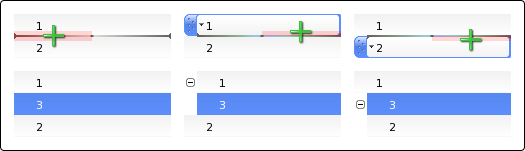
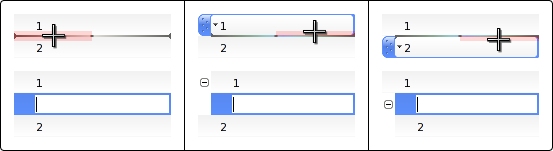
- Redone the ClickOnRightToGroup help image to be more obvious
- Added an explaining image for "export tags in texts"
git-svn-id: http://basket.linux62.org/svn/basket/trunk@79 68e0c82f-6715-0410-a4b6-c4571a790354

diff --git a/src/settings.cpp b/src/settings.cpp
@@ -355,12 +355,17 @@ SettingsDialog::SettingsDialog(QWidget *parent)
 	hLay = new QHBoxLayout(0L, /*margin=*/0, KDialogBase::spacingHint());
 	m_exportTextTags = new QCheckBox(i18n("E&xport tags in texts"), page1);
 	m_exportTextTags->setChecked(Settings::exportTextTags());
+
+
+	QPixmap pixmapHelp(KGlobal::dirs()->findResource("data", "basket/images/tag_export_help.png"));
+	QMimeSourceFactory::defaultFactory()->setPixmap("__resource_help_tag_export.png", pixmapHelp);
 	HelpLabel *hLabel = new HelpLabel(
 			i18n("When does this apply?"),
 			i18n("<p>It does apply when you copy and paste, or drag and drop notes to a text editor.</p>"
 			     "<p>If enabled, this property allows you to paste the tags as textual equivalents.<br>"
 			     "For instance, a list of notes with the <b>To Do</b> and <b>Done</b> tags are exported as lines preceded by <b>[ ]</b> or <b>[x]</b>, "
-			     "representing an empty  checkbox and a checked box.</p>"),
+			     "representing an empty  checkbox and a checked box.</p>") +
+			"<p align='center'><img src=\"__resource_help_tag_export.png\"></p>",
 			page1);
 	hLay->addWidget(m_exportTextTags);
 	hLay->addWidget(hLabel);
@@ -598,7 +603,7 @@ SettingsDialog::SettingsDialog(QWidget *parent)
 	QMimeSourceFactory::defaultFactory()->setPixmap("__resource_help_insertion_line.png", pixmap);
 	HelpLabel *helpV = new HelpLabel(i18n("How to group a new note?"),
 		i18n("<p>When this option is enabled, the insertion-line not only allows you to insert notes at the cursor position, but also allows you to group a new note with the one under the cursor:</p>") +
-		"<p><img src=\"__resource_help_insertion_line.png\"></p>" +
+		"<p align='center'><img src=\"__resource_help_insertion_line.png\"></p>" +
 		i18n("<p>Place your mouse between notes, where you want to add a new one.<br>"
 		     "Click on the <b>left</b> of the insertion-line middle-mark to <b>insert</b> a note.<br>"
 		     "Click on the <b>right</b> to <b>group</b> a note, with the one <b>below or above</b>, depending on where your mouse is.</p>"), m_groupOnInsertionLineWidget);

diff --git a/src/container.cpp b/src/container.cpp
@@ -2641,6 +2641,7 @@ void Container::updateNotesActions()
 	bool isLocked             = currentBasket()->isLocked();
 	bool oneSelected          = currentBasket()->countSelecteds() == 1;
 	bool oneOrSeveralSelected = currentBasket()->countSelecteds() >= 1;
+	bool severalSelected      = currentBasket()->countSelecteds() >= 2;
 
 	// FIXME: m_actCheckNotes is also modified in void Container::areSelectedNotesCheckedChanged(bool checked)
 	//        bool Basket::areSelectedNotesChecked() should return false if bool Basket::showCheckBoxes() is false
@@ -2663,7 +2664,7 @@ void Container::updateNotesActions()
 	m_actOpenNote        ->setEnabled(              oneOrSeveralSelected );
 	m_actOpenNoteWith    ->setEnabled(              oneSelected          ); // TODO: oneOrSeveralSelected IF SAME TYPE
 	m_actSaveNoteAs      ->setEnabled(              oneSelected          ); // IDEM?
-	m_actGroup           ->setEnabled( !isLocked && oneOrSeveralSelected );
+	m_actGroup           ->setEnabled( !isLocked && severalSelected && !currentBasket()->selectionIsOneGroup() );
 	m_actUngroup         ->setEnabled( !isLocked && oneSelected          );
 	m_actMoveOnTop       ->setEnabled( !isLocked && oneOrSeveralSelected );
 	m_actMoveNoteUp      ->setEnabled( !isLocked && oneOrSeveralSelected );
